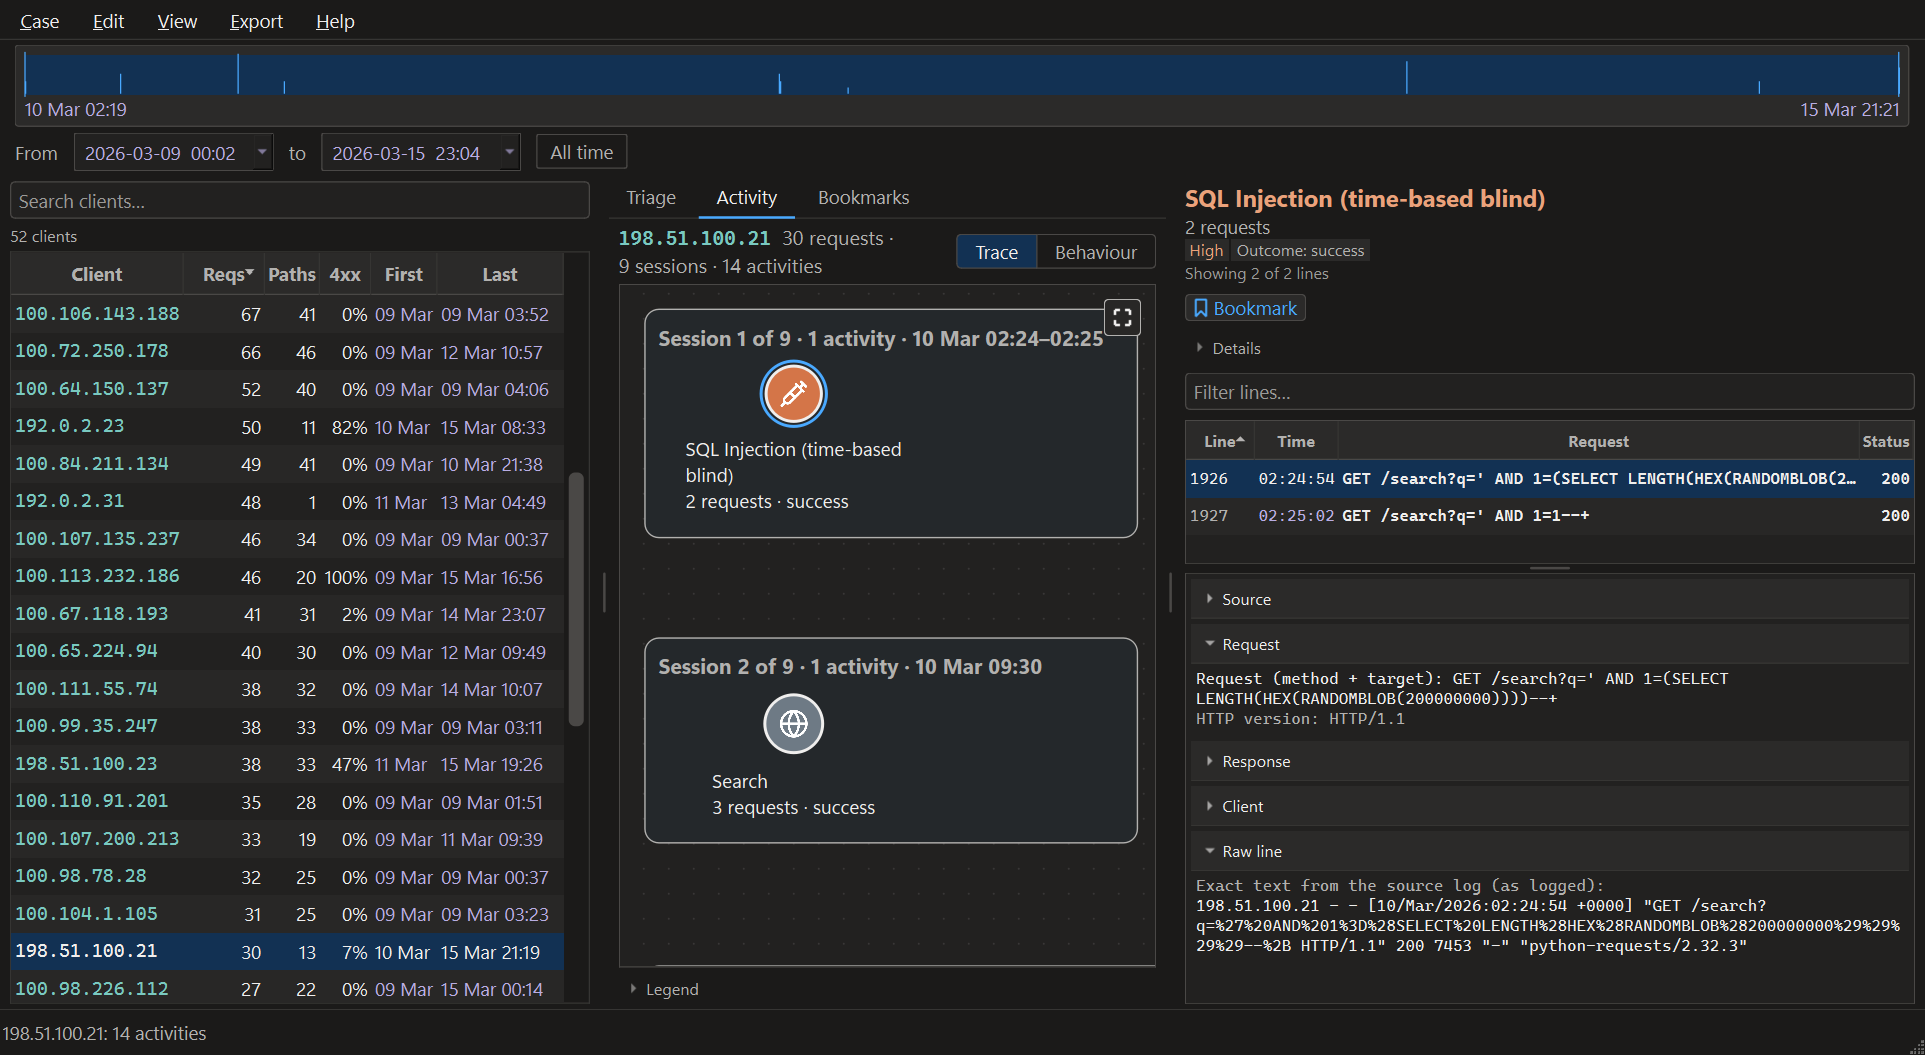
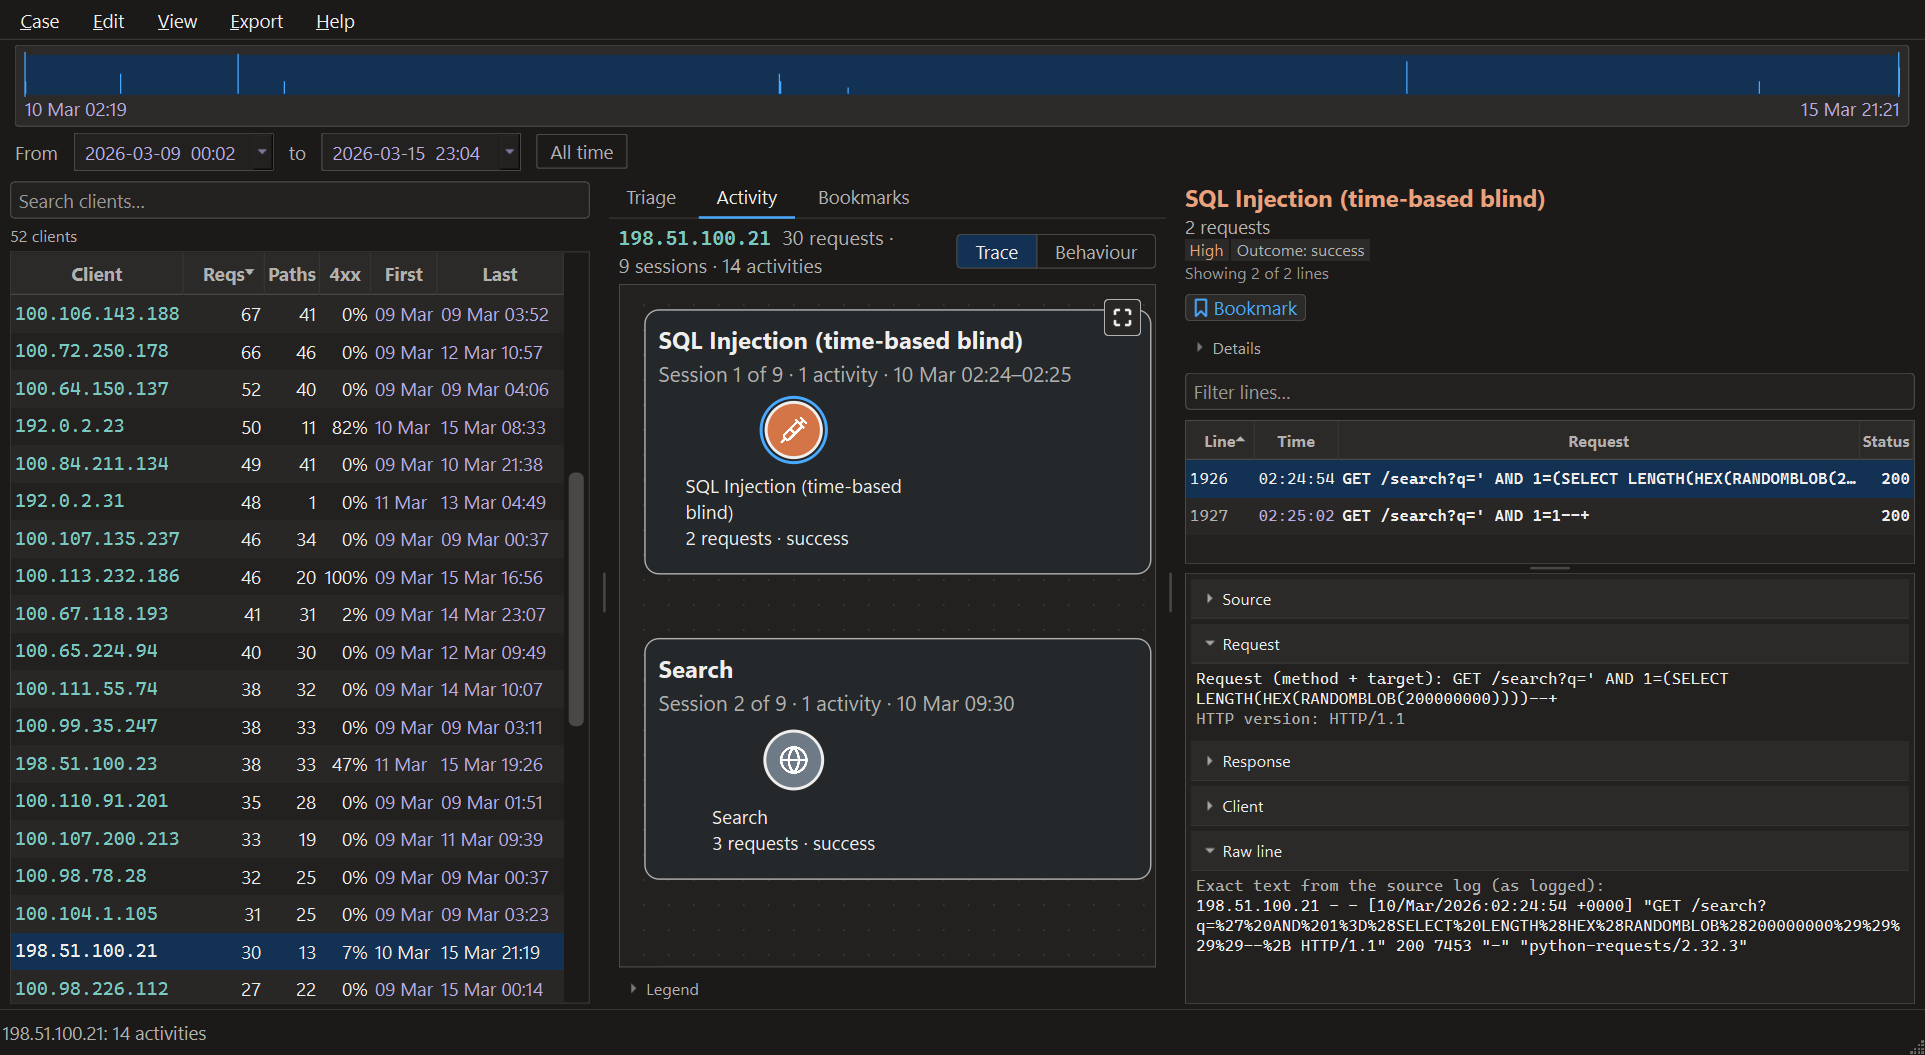
docs: session names

Changed region(s): [[0.3429, 0.3033, 0.5922, 0.5156], [0.3429, 0.6066, 0.561, 0.819]]

diff --git a/docs/manual-test-plan.md b/docs/manual-test-plan.md
@@ -889,15 +889,17 @@ candidates the ordering is the thing most likely to be wrong.
 
 1. Reconstruct `192.0.2.231` from the shopfront excerpt.
 
-**Pass:** every session is in a faint blue box labelled `Session k of 69 ·
-n activities · time`. No caption carries a darker square behind it. No two
-boxes touch.
+**Pass:** every session is in a faint blue box headed by a name in bold,
+the name of one of the activities in it, with `Session k of 69 · n activities
+· time` under it. No caption carries a darker square behind it. No two boxes
+touch.
 
-2. Rest the pointer on a box's label, then on the empty ground inside a box.
+2. Rest the pointer on a box's heading, then on the empty ground inside a box.
 
-**Pass:** on the label, a tip says a session is one visit from this address,
+**Pass:** on the heading, a tip says a session is one visit from this address,
 with no pause inside it longer than 30 minutes, the same user agent
-throughout, and 8 hours at most. On the empty ground, no tip.
+throughout, and 8 hours at most, and ends `Double-click the title to rename
+this session.` On the empty ground, no tip.
 
 3. Drag an activity well to the right of its row, then press Ctrl+Z.
 
@@ -916,6 +918,33 @@ back the drag from step 3.
 6. Switch to **Behaviour**.
 
 **Pass:** no boxes there, whichever way the preference is set.
+
+7. Back on **Trace**, with the boxes on, right-click the empty ground inside
+   the first box and choose **Rename session…**. Type `Scanner looking
+   around` and press Enter.
+
+**Pass:** the window says which session and logarc's own name. After Enter
+the box is headed `Scanner looking around` with a pencil before it, and
+nothing else moves. Resting on the heading, the tip begins `Named by you.
+logarc's name:` and the name the box had before.
+
+8. Right-click the paper outside every box.
+
+**Pass:** **Rename session…** is there, greyed out.
+
+9. Close the case and open it again, then reconstruct `192.0.2.231`.
+
+**Pass:** the first box is still `Scanner looking around`, with its pencil.
+
+10. Double-click that heading and press **Use logarc's name**.
+
+**Pass:** the box has its old name back, with no pencil.
+
+11. Copy the case folder somewhere read-only (a folder whose permissions refuse
+    writes), open the copy, and rename a session.
+
+**Pass:** the window stays open and says `Could not save the name: the case
+folder cannot be written to.` The heading does not change.
 
 ---
 
@@ -1312,7 +1341,7 @@ rule.
 | 19 | An IIS log reads from its own header; its directives are not quarantined | | |
 | 20 | A pattern reads a syslog-wrapped log; a year-less time format is refused | | |
 | 21 | The fourteen shipped formats read as a list you can choose from | | |
-| 22 | Sessions are boxed and explained; the boxes follow a drag and can be turned off | | |
+| 22 | Sessions are boxed, named and explained; a name can be changed, survives reopening, and goes back; the boxes follow a drag and can be turned off | | |
 | 23 | The evidence filters, says how much it kept, fades the canvas, and resets per client | | |
 | 24 | The client box finds clients by their requests, moves the range for a time, and opens a client filtered | | |
 | 25 | Bookmarks save from each place, wear ribbons, list by category, reopen past the range, export, reach a second window, and survive an unreadable file | | |

diff --git a/README.md b/README.md
@@ -13,7 +13,7 @@ readable account of what each client did. Instead of thousands of lines, you get
 each client's requests grouped into **activities**, connected in the order they
 happened, and every one of them opens the exact log lines it was built from.
 
-![The logarc window: the client list, one client's trace with each session in a box, and the 46 log lines behind the selected SQL injection](docs/images/screenshot-trace.png)
+![The logarc window: the client list, one client's trace with each session in a box headed by its name, and the 46 log lines behind the selected SQL injection](docs/images/screenshot-trace.png)
 
 <sub>sqlmap against a shop, in the last of three sessions. The selected activity is 46 requests: 30 `UNION ALL SELECT`, 11 always-true conditions, one column count, and four known only by sqlmap's user agent. The server answered every one with HTTP 200. The panel on the right is the evidence: line numbers, statuses, and the raw line exactly as Apache wrote it.</sub>
 
@@ -65,7 +65,7 @@ professionals.**
 |---|---|---|
 | **Open the log** | "What format is this? Do I need a database?" | **Case → New from logs…** detects the format (fourteen are built in) and reads the log on your machine. Lines it cannot read are counted and reported, never silently dropped. |
 | **Find a starting point** | "A million lines. Where do I look?" | **Triage** ranks clients in a *Suspicious* and an *Unusual* queue, each with a *Finding* and the reasons behind its place. |
-| **Understand and check** | "What did this address do, in what order, and how did the server answer?" | Each client becomes a graph of activities, grouped into sessions with their times. A node's outline summarises the response codes it received, and the icon inside it says what kind of activity it was. Click it and the evidence panel lists the requests behind it, decoded, with the raw line kept and repeated lines folded. |
+| **Understand and check** | "What did this address do, in what order, and how did the server answer?" | Each client becomes a graph of activities, grouped into sessions with their times and a name for each, which you can change. A node's outline summarises the response codes it received, and the icon inside it says what kind of activity it was. Click it and the evidence panel lists the requests behind it, decoded, with the raw line kept and repeated lines folded. |
 | **Explain and hand over** | "How do I show this to someone who can act?" | **Ctrl+D** bookmarks a client, an activity or a line, with a note. **Export** writes a report (HTML), the graph (JSON), or every bookmark (CSV). |
 | **Teach it** | "It missed something I can see." | Right-click the line and choose **Make a rule from this line…**. Choose the parts to match, name and classify the rule, review what it matches, then **Add rule**. **Re-read now** applies it to the open client and restarts Triage. There is no YAML to write yourself. |
 

diff --git a/docs/desktop-app.md b/docs/desktop-app.md
@@ -220,14 +220,28 @@ fitted to the window. The *Wrap long traces* preference turns the fold off when
 the straight timeline is worth more than legible captions; the graph is then
 panned rather than fitted, opening on its first activity.
 
-Each session sits in a box of its own, labelled with its number, how many
-activities it holds and when it ran, such as `Session 2 of 69 · 2 activities ·
-09 Mar 01:55–02:26`. That gives the session count in the header something on the
-canvas to point to. Rest the pointer on a label to see what makes a session:
-no pause inside it longer than 30 minutes, the same user agent throughout, and
-8 hours at most. A box follows its activities when they are dragged. The
-*Outline each session* preference turns the boxes off, and nothing moves when
-it does.
+Each session sits in a box of its own, headed by a name: the name of its most
+important activity, picked the way an activity picks its own name. The most
+severe comes first, then an attack over ordinary use, then the one with the
+most requests. Under the name is its number, how many activities it holds and
+when it ran, such as `Session 2 of 69 · 2 activities · 09 Mar 01:55–02:26`.
+That gives the session count in the header something on the canvas to point
+to. Rest the pointer on the heading to see what makes a session: no pause
+inside it longer than 30 minutes, the same user agent throughout, and 8 hours
+at most.
+
+To give a session a name of your own, right-click anywhere inside its box and
+choose **Rename session…**, or double-click its heading. **Use logarc's name**
+in that window puts logarc's name back. A name you gave carries a pencil, and
+the heading's tip begins with logarc's own name, so nobody takes your words for
+something the log says. Names are kept in `session-names.json` in the case
+folder, beside your bookmarks and outside the manifest, so they come back when
+the case is opened again, on any machine the folder is copied to. A name
+belongs to the session that starts at the same log line: a time filter that
+cuts that line off shows logarc's name until the filter is cleared.
+
+A box follows its activities when they are dragged. The *Outline each session*
+preference turns the boxes off, and nothing moves when it does.
 
 ![The behaviour map: 557 requests folded into two activity types](images/screenshot-behaviour.png)
 

diff --git a/CHANGELOG.md b/CHANGELOG.md
@@ -12,6 +12,18 @@ which will be the first tag.
 
 ### Added
 
+- **Every session is named.** A session's box is headed by the name of its most
+  important activity, picked as an activity picks its own (most severe, then an
+  attack over ordinary use, then the most requests), with its old label,
+  `Session 2 of 69 · 2 activities · 09 Mar 01:55–02:26`, underneath. On the
+  shopfront log and the 917-client evaluation build, all 2,504 sessions came out
+  with a name. Right-click inside a box and choose *Rename session…*, or
+  double-click its heading, to name it yourself; a name you gave carries a pencil,
+  its tip starts with logarc's own name, and *Use logarc's name* puts that back.
+  Names are kept in `session-names.json` in the case folder, outside the
+  manifest, keyed by the session's client and first log line, so a time filter
+  that cuts that line off shows logarc's name until it is cleared. The closest
+  two boxes on the shopfront log now stand 48 units apart, from 84.
 - **An icon for every kind of activity, inside its circle.** Each activity on the
   graph, Trace and Behaviour alike, carries an icon for its kind — fourteen
   kinds, every rule names one, so none is drawn without — in white or near-black
